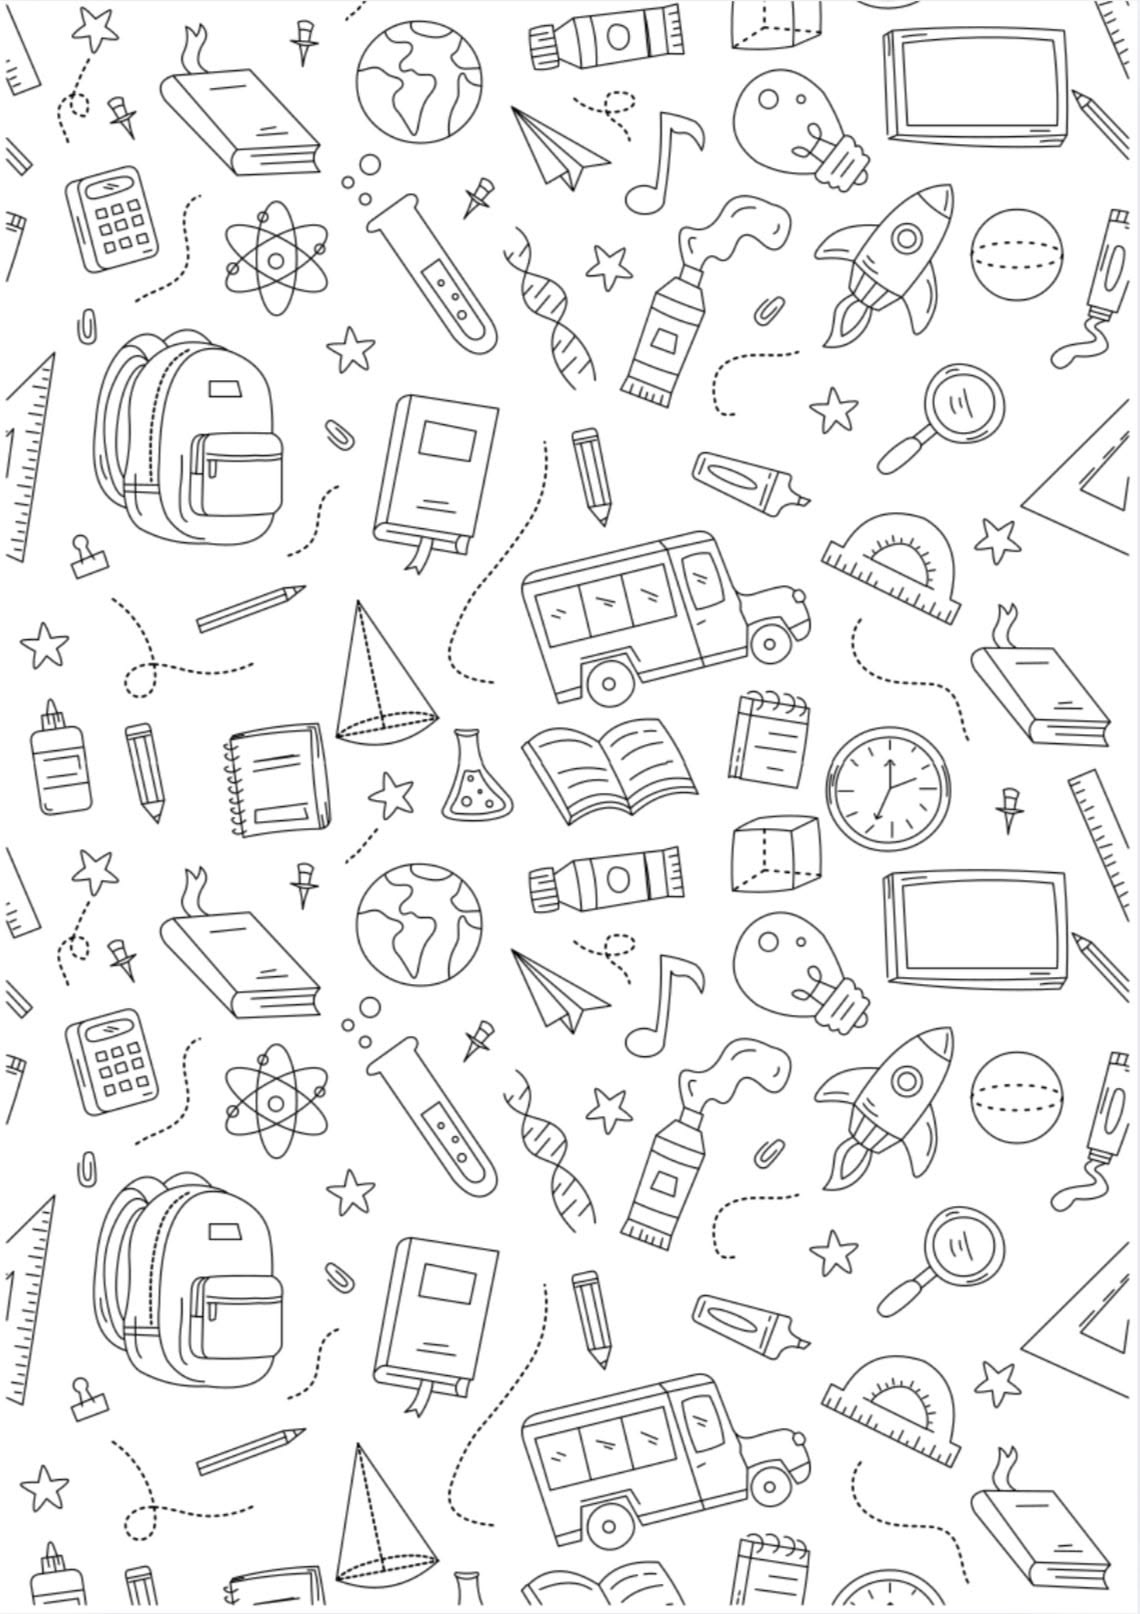
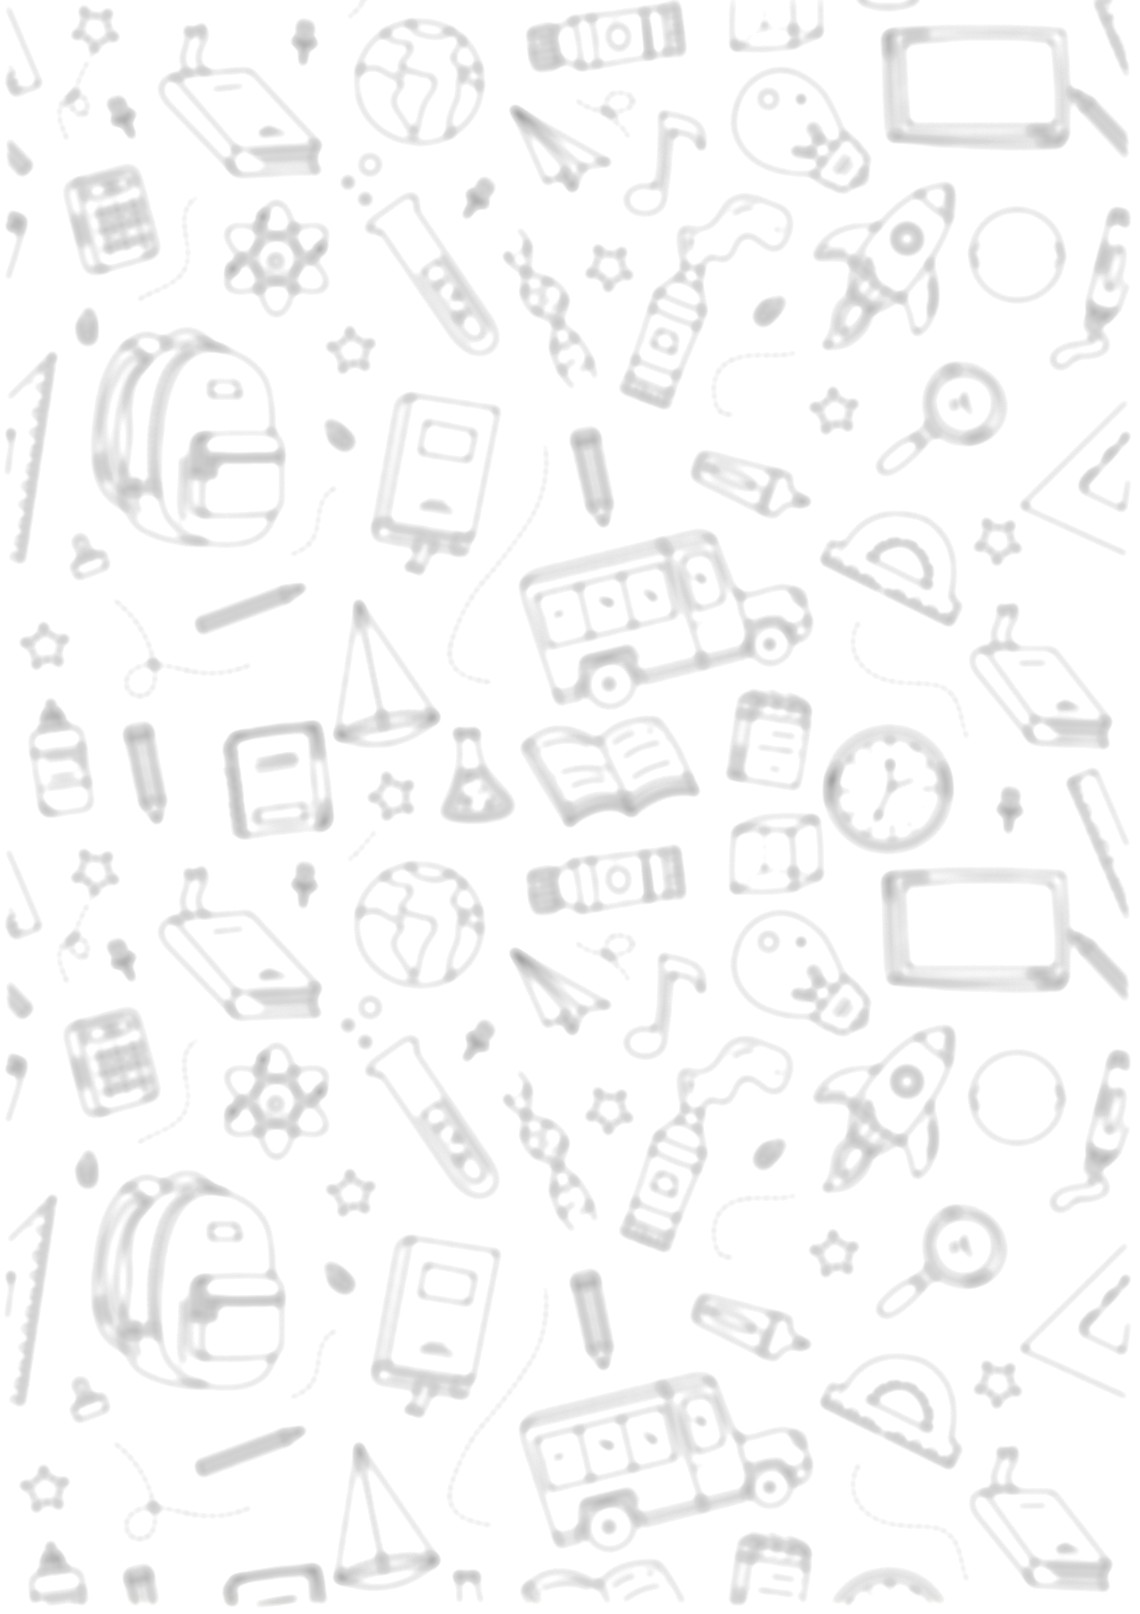
corrected the mistakes

diff --git a/adminstyle.css b/adminstyle.css
@@ -88,6 +88,8 @@ h1 {
     backdrop-filter: blur(2px);
     margin: auto;
     text-align: center;
+    /* border-style: double; */
+    /* padding: 20px; */
 }
 
 table {
@@ -157,4 +159,21 @@ a:hover {
 
 .h2 {
     text-align: center;
+}
+
+/* Edit Page */
+
+.div-edit {
+    margin: 500px;
+    padding: 20px;
+}
+
+th {
+    border: #202b60 solid;
+    column-gap: 100px;
+    width: 1000px;
+}
+
+td {
+    border: #202b60 solid;
 }

diff --git a/edit.php b/edit.php
@@ -33,16 +33,24 @@ $row = mysqli_fetch_assoc($result);
         </a>
 
     </div>
-    <h1>Edit Student</h1>
-    <form action="update.php" method="post" class="font-style">
-        <input type="hidden" name="id" value="<?php echo $row["id"]; ?>"><br><br>
-        Name : <input type="text" name="name" value="<?php echo $row["name"]; ?>"><br><br>
-        Email : <input type="email" name="email" value="<?php echo $row["email"]; ?>"><br><br>
-        Phone Number : <input type="number" name="phno" value="<?php echo $row["phno"]; ?>"><br><br>
-        Course : <input type="text" name="course" value="<?php echo $row["course"]; ?>"><br><br>
-        Photo : <input type="file" name="photo" value="<?php echo $row["photo"]; ?>"><br><br>
-        <input type="submit" value="update" name="update" required>
-    </form>
+    <br><br><br><br>
+    <div class="card" style="width:600px;margin-left: 400px;">
+
+        <h1>Edit Student</h1>
+        <form action="update.php" method="post" class="font-style" enctype="multipart/form-data">
+            <input type="hidden" name="id" value="<?php echo $row["id"]; ?>"><br><br>
+            Name : <input type="text" name="name" value="<?php echo $row["name"]; ?>"><br><br>
+            Email : <input type="email" name="email" value="<?php echo $row["email"]; ?>"><br><br>
+            Phone Number : <input type="number" name="phno" value="<?php echo $row["phno"]; ?>"><br><br>
+            Course : <input type="text" name="course" value="<?php echo $row["course"]; ?>"><br><br>
+            Change Photo:
+            <input type="file" name="photo" accept="image/*">
+            <br><br>
+            <!-- <div class="id-photo"><img src="uploads/<?php echo $row["photo"]; ?>" width="80" height="80"></div>
+        Change Photo :<input type="file" name="photo" value="<?php echo $row["photo"]; ?>"><br><br> -->
+            <input type="submit" value="update" name="update" required>
+        </form>
+    </div>
 </body>
 
 </html>

diff --git a/form.php b/form.php
@@ -77,27 +77,29 @@ if (isset($_POST["submit"])) {
     <div>
         <h1 class="font-style">Add Student</h1>
         <center>
-            <div class="card mb-3 shadow-lg p-3 mb-5 bg-body-tertiary rounded div-form" style="max-width: 700px;">
+            <div class="card mb-3 shadow-lg p-3 mb-5 bg-body-tertiary rounded div-form"
+                style="max-width: 800px; margin-left:200px;">
                 <div class="row g-0">
-                    <div class="col-md-2 g-3 ">
+                    <div class="col-md-2 g-4 ">
                         <form method="post" enctype="multipart/form-data">
                             <div class="photo-upload margin-photo">
-
                                 <label for="photo" class="photo-circle">
 
                                     <img id="preview" src="images/profile.jpg" alt="Profile Photo">
 
                                 </label>
-
                                 <input type="file" id="photo" name="photo" accept="image/*" required>
-
+                                <br>
+                                <div style="width:290px;margin-left:-50px;color:grey;">
+                                    <p>Click the logo to upload photo</p>
+                                </div>
                                 <div class="invalid-feedback">
                                     Please upload a photo.
                                 </div>
 
                             </div>
                     </div>
-                    <div class="col-md-10 g-3 ">
+                    <div class="col-md-10 g-4">
                         <div class="card-body" style="margin-right: -75px;">
                             Name : <input type="text" name="name" required><br><br>
                             Email : <input type="email" name="email" required><br><br>
@@ -113,6 +115,7 @@ if (isset($_POST["submit"])) {
     </div>
     </div>
     </div>
+
     </div>
     </center>
     <script>

diff --git a/update.php b/update.php
@@ -6,13 +6,42 @@ if (isset($_POST["update"])) {
     $email = $_POST["email"];
     $phno = $_POST["phno"];
     $course = $_POST["course"];
-    $photo = $_POST["photo"];
-    $sql = "UPDATE school SET name='$name',email='$email',phno='$phno',course='$course',photo='$photo' WHERE id='$id'";
+    // $photo = $row["photo"];
+    // if (isset($_FILES["photo"]) && $_FILES["photo"]["error"] == 0) {
+
+    //     $photo = time() . "_" . $_FILES["photo"]["name"];
+
+    //     move_uploaded_file(
+    //         $_FILES["photo"]["tmp_name"],
+    //         "uploads/" . $photo
+    //     );
+    // }
+    $sql = "UPDATE school SET name='$name',email='$email',phno='$phno',course='$course' WHERE id='$id'";
     if (mysqli_query($conn, $sql)) {
-        echo "Recordc Update Successfully.";
+        echo "Record Update Successfully.";
     } else {
         echo "Update Failed.";
     }
+    mysqli_query($conn, $sql);
+
+    if (isset($_FILES["photo"]) && $_FILES["photo"]["error"] == 0) {
+
+        $photo = time() . "_" . $_FILES["photo"]["name"];
+
+        move_uploaded_file(
+            $_FILES["photo"]["tmp_name"],
+            "uploads/" . $photo
+        );
+
+        $sql_photo = "UPDATE school 
+                      SET photo='$photo' 
+                      WHERE id='$id'";
+
+        mysqli_query($conn, $sql_photo);
+    }
+
+    header("Location: view.php");
+    exit();
 }
 header("Location:view.php");
 exit();

diff --git a/view.php b/view.php
@@ -34,7 +34,8 @@ $total = mysqli_query($conn, "SELECT * FROM school");
     </div>
     <br>
     <h1>Student Details</h1>
-    <table border="2" cellpading="30" class="table-view">
+    <table border="2" cellpading="60" class="card table-view shadow-lg p-3 mb-5 bg-body-tertiary rounded div-form"
+        style="margin-left:200px;">
         <tr class="font-style">
             <th>ID</th>
             <th>Photo</th>
